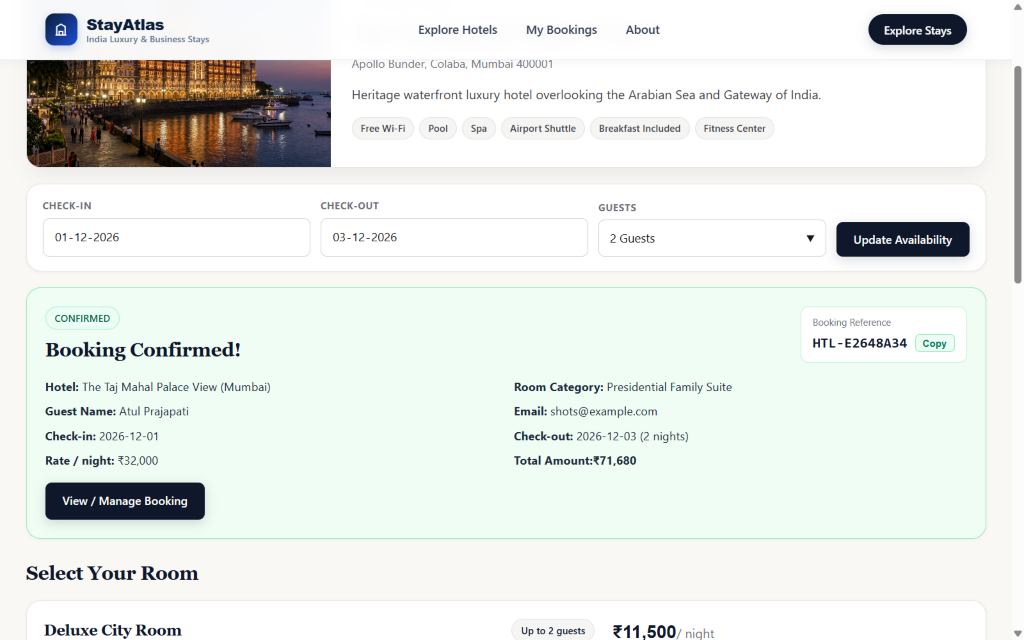
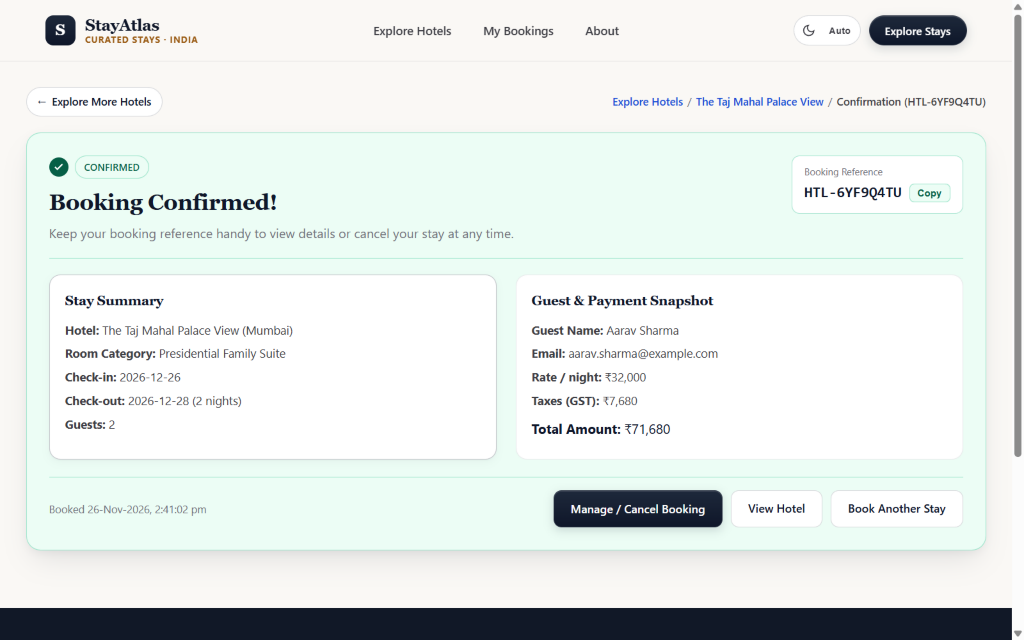
docs: sync README/DESIGN API & test counts and refresh flow screenshots

diff --git a/README.md b/README.md
@@ -27,12 +27,14 @@
 ## Key Features
 
 - **5 Curated Indian Hotels & 11 Room Categories:** Seeded automatically via Flyway across Mumbai, Goa, Jaipur, Bengaluru, and New Delhi.
-- **Location Search, Categories, Sorting & Pagination:** Filter by city/address, travel style categories (Family, Business, Couples, Beach, Luxury), star rating or name sorting, and paginated results.
+- **Database-Level Search & Advanced Filters:** Filter at the MySQL/JPA layer by location, check-in/check-out dates, guest capacity, **Min/Max room price per night** (`minPrice`/`maxPrice` with synchronized dual slider, manual inputs, and quick presets), minimum star rating, and multiple hotel amenities, combined with sorting and pagination.
+- **Dedicated Multi-Page Angular Routes:** Separate bookmarkable/refresh-safe routes for `/hotels`, `/hotels/:id`, `/hotels/:id/availability`, `/booking/:hotelId/:roomTypeId`, `/booking/confirmation/:reference`, `/manage-booking`, and `/manage-booking/:reference`, with breadcrumbs and Back navigation.
+- **Light, Dark & System Themes:** Flicker-free pre-render theme initialization with `localStorage` persistence and accessible desktop/mobile theme switchers.
 - **Date Validation & Exclusive Check-Out Overlap Math:** Rejects past check-in dates and `checkOut <= checkIn`; allows back-to-back stays (`checkIn2 == checkOut1`).
 - **Authoritative Backend INR (`₹`) Pricing:** Computes `nights * basePricePerNight + 12% GST` using `BigDecimal` on the backend and persists immutable price snapshots on every booking.
 - **Concurrency-Safe Reservations:** Uses `@Transactional(isolation = Isolation.READ_COMMITTED)` + `PESSIMISTIC_WRITE` (`SELECT ... FOR UPDATE`) on the parent `RoomType` row to prevent double-booking the last room.
 - **Idempotency-Key Support:** Protects against duplicate submissions on double-clicks or network retries via `Idempotency-Key` header and a unique DB constraint.
-- **Booking Retrieval & Cancellation:** Guests look up reservations by `bookingReference` + `guestEmail` and cancel `CONFIRMED` bookings via a confirmation modal, immediately releasing room capacity.
+- **Booking Retrieval & Cancellation:** Guests look up reservations by `bookingReference` + `guestEmail` on `/manage-booking` and cancel `CONFIRMED` bookings on `/manage-booking/:reference` via an in-page confirmation step, immediately releasing room capacity.
 - **Surprise Feature — Smart Alternative Dates:** When a room category is sold out for requested dates, automatically suggests up to 3 available date windows within the next 7 days preserving the exact stay duration.
 
 ---
@@ -122,8 +124,9 @@ All core endpoints are exposed under `/api/...` (and `/api/v1/...` for versioned
 | Method | Endpoint | Description |
 |---|---|---|
 | `GET` | `/api/health` | Verifies application and live MySQL JDBC connectivity |
-| `GET` | `/api/hotels` | Paginated & sorted hotel search (`location` or `city`, `checkIn`, `checkOut`, `guests`, `page`, `size`, `sortBy`, `direction`, `sort`) |
+| `GET` | `/api/hotels` | Paginated & sorted DB search (`location`/`city`, `checkIn`, `checkOut`, `guests`, `minPrice`, `maxPrice`, `minRating`, `amenities`, `page`, `size`, `sortBy`, `direction`, `sort`) |
 | `GET` | `/api/hotels/cities` | List distinct cities |
+| `GET` | `/api/hotels/filter-metadata` | Dynamic min/max nightly room rates and distinct hotel amenities from MySQL |
 | `GET` | `/api/hotels/{id}` | Hotel details by ID |
 | `GET` | `/api/hotels/{id}/availability` | Hotel & room-type availability + INR pricing (`checkIn`, `checkOut`, `guests`) |
 | `GET` | `/api/hotels/{id}/rooms` | Room categories with optional live availability & Smart Alternative Dates |
@@ -137,13 +140,13 @@ All core endpoints are exposed under `/api/...` (and `/api/v1/...` for versioned
 
 ## Automated Testing Instructions
 
-### Backend Tests (25 JUnit 5 Unit, Integration & Concurrency Tests)
+### Backend Tests (26 JUnit 5 Unit, Integration & Concurrency Tests)
 ```bash
 cd hotel-booking-portal/backend
 mvn clean verify
 ```
 
-### Frontend Build & Unit Tests (5 Karma/Jasmine Tests)
+### Frontend Build & Unit Tests (16 Karma/Jasmine Tests)
 ```bash
 cd hotel-booking-portal/frontend
 npm run build

diff --git a/DESIGN.md b/DESIGN.md
@@ -5,7 +5,7 @@
 StayAtlas is built as a **Scalable Modular Monolith** rather than microservices to avoid distributed transaction overhead while keeping clear domain boundaries.
 
 ```text
-Angular 19 SPA (Lazy-Loaded Features: HotelSearch, HotelDetail, ManageBooking, InfoPage)
+Angular 19 SPA (Lazy-Loaded Routes: HotelSearch, HotelDetail, HotelAvailability, BookingForm, BookingConfirmation, ManageBooking, ManageBookingDetail, InfoPage)
         │  Stateless HTTP/JSON (CORS, Idempotency-Key)
         ▼
 Spring Boot 3 REST Controllers (/api/hotels, /api/availability, /api/bookings, /api/health)
@@ -98,7 +98,8 @@ erDiagram
 ## 3. Main REST API Endpoints
 
 - `GET /api/health` — Executes `SELECT 1` against HikariCP `DataSource` and reports `UP`/`CONNECTED` or `503` `DOWN`.
-- `GET /api/hotels` — Paginated, sorted search supporting `location`/`city`, `checkIn`, `checkOut`, `guests`, `page`, `size`, `sortBy`, `direction`, `sort`.
+- `GET /api/hotels` — Paginated, sorted JPA `Specification` search supporting `location`/`city`, `checkIn`, `checkOut`, `guests`, `minPrice`, `maxPrice`, `minRating`, `amenities`, `page`, `size`, `sortBy`, `direction`, `sort`.
+- `GET /api/hotels/filter-metadata` — Aggregates `MIN(basePricePerNight)`, `MAX(basePricePerNight)`, currency, and distinct amenities from DB.
 - `GET /api/hotels/{id}` — Returns `HotelDetailResponse` (`404` if invalid ID).
 - `GET /api/hotels/{id}/availability` — Validates dates and returns `HotelAvailabilityResponse` with per-room availability and INR `PriceBreakdown`.
 - `GET /api/hotels/{id}/rooms` — Returns room categories with live availability and Smart Alternative Dates.
